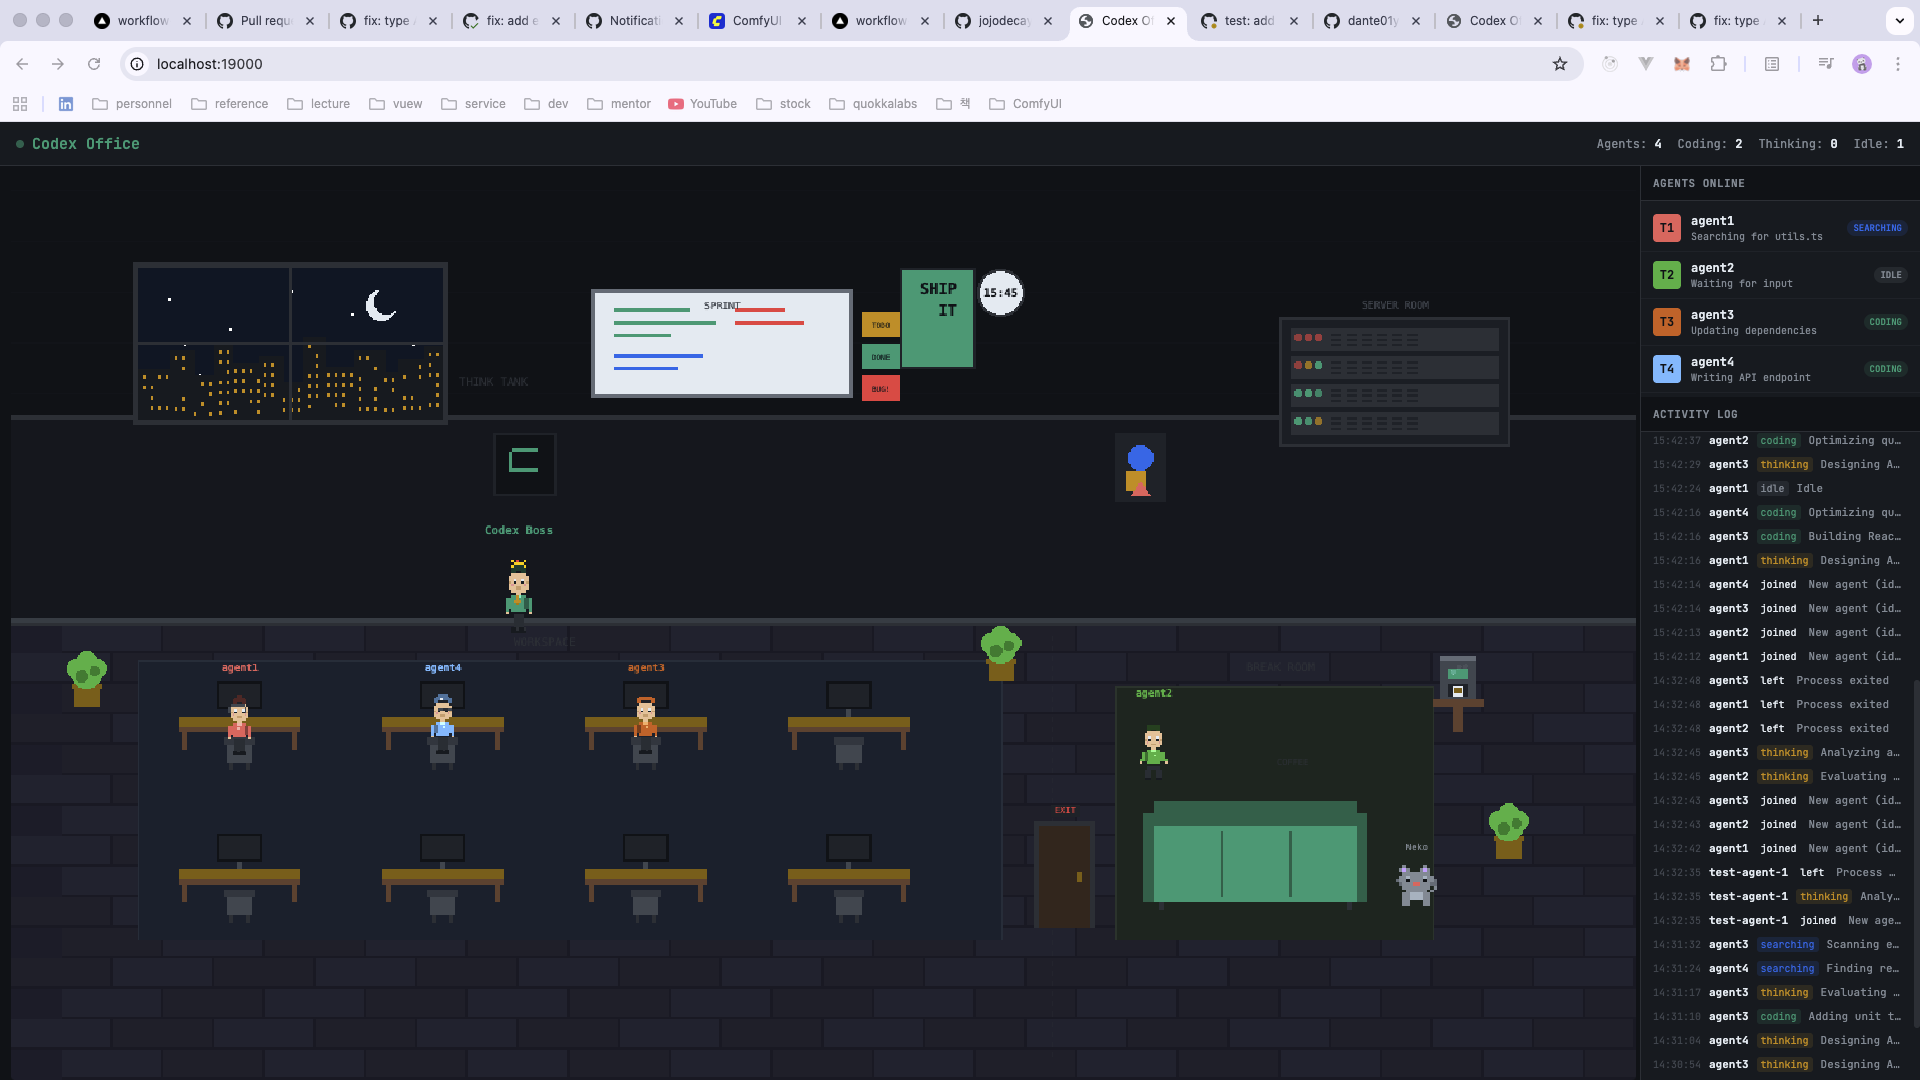
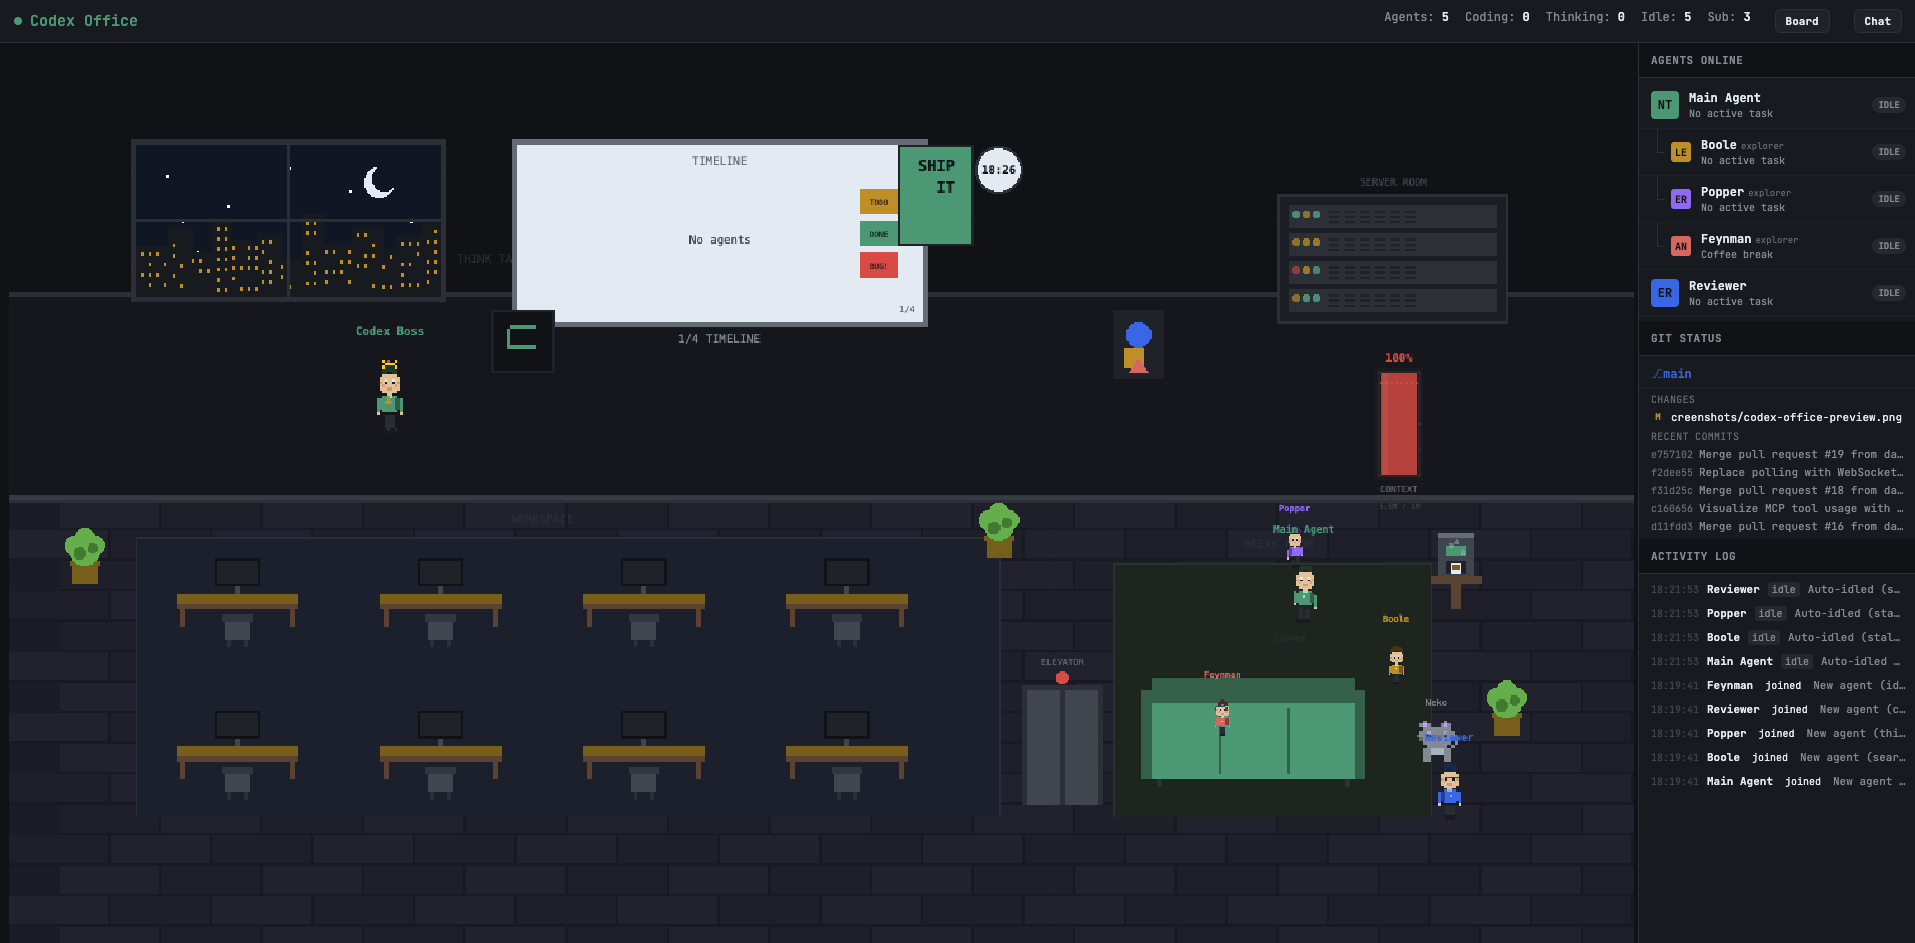
Update README and screenshot with all new features

diff --git a/README.md b/README.md
@@ -7,21 +7,28 @@ A real-time pixel art office that visualizes running [OpenAI Codex CLI](https://
 ## Features
 
 - **Real-time Codex detection** - Automatically detects Codex CLI and VS Code Codex sessions
-- **3-layer detection system** - Process scanning + SQLite session data + log analysis
-- **CPU-based state classification** - coding, thinking, searching, idle states with debouncing
+- **WebSocket real-time updates** - Instant UI updates via Socket.IO, polling fallback
+- **Sub-agent visualization** - Sub-agents appear as smaller sprites near their parent with tree-structured sidebar
+- **MCP tool icons** - Floating service badges (Notion, GitHub, Sentry, Slack, etc.) above characters during MCP tool calls
+- **Interactive whiteboard** - 4 display modes (Timeline, Tool Usage, Org Chart, News Ticker) with expandable sidebar panel
+- **Conversation history** - Toggleable chat panel showing parsed Codex log events
+- **Context window meter** - Visual gauge showing token usage with color-coded fill
+- **A* pathfinding** - Characters navigate around furniture naturally
+- **Elevator animation** - Agents arrive/depart through animated elevator doors
+- **Git status panel** - Branch, changed files, recent commits in sidebar
 - **Pixel art office** - Programmatically generated characters with 8 hair styles, accessories, and 6 animation frames
 - **Activity log** - Timestamped state transitions and task descriptions
 - **Simulation mode** - Demo with 4 agents showing realistic behavior patterns
-- **PNG asset override** - Drop sprite sheets into `assets/` to replace programmatic sprites
 
 ## How It Works
 
 ```
-Codex processes  ←[scan every 2s]→  agent-watcher.py  →[POST /agent/state]→  Flask (port 19000)
-                                                                                    │
-~/.codex/state_5.sqlite  ←[session metadata]─────────────────────────────────────────┤
-                                                                                    │
-Browser (Phaser 3)  ←──────────────[GET /agents every 500ms polling]────────────────┘
+Codex processes  ←[scan 2s]→  agent-watcher.py  →[POST]→  Flask + SocketIO (port 19000)
+                                                                   │
+~/.codex/state_5.sqlite  ←[session + sub-agent metadata]───────────┤
+~/.codex/logs_1.sqlite   ←[tool calls + MCP activity]──────────────┤
+                                                                   │
+Browser (Phaser 3)  ←───────────[WebSocket real-time]──────────────┘
 ```
 
 ### State Classification
@@ -33,9 +40,29 @@ Browser (Phaser 3)  ←──────────────[GET /agents ev
 | **searching** | 2-5% | Think Tank |
 | **idle** | < 2% | Break Room (couch) |
 
+### Keyboard Shortcuts
+
+| Key | Action |
+|-----|--------|
+| `1-4` | Switch whiteboard mode |
+| `W` | Toggle whiteboard panel |
+| `Chat` button | Toggle conversation history |
+| `Board` button | Toggle whiteboard panel |
+| Double-click agent | Focus terminal window |
+
 ## Quick Start
 
-### One-click (macOS)
+### Auto-start (recommended)
+
+```bash
+# Install as macOS LaunchAgent - starts on login
+bash install-autostart.sh
+
+# Open in browser
+open http://localhost:19000
+```
+
+### One-click
 
 Double-click `start-office.command`
 
@@ -43,12 +70,12 @@ Double-click `start-office.command`
 
 ```bash
 # Install dependencies
-pip install flask flask-cors requests
+pip install flask flask-cors flask-socketio requests
 
 # Start the backend server
 python3 backend/app.py &
 
-# Start the agent watcher (detects real Codex sessions)
+# Start the agent watcher
 python3 agent-watcher.py &
 
 # Open in browser
@@ -67,24 +94,29 @@ python3 simulate.py 4
 ```
 codex-office/
 ├── backend/
-│   └── app.py              # Flask API server (port 19000)
+│   └── app.py              # Flask + SocketIO server (port 19000)
 ├── frontend/
 │   ├── assets/             # Drop-in PNG spritesheet folder
-│   ├── index.html          # Phaser 3 entry point (CDN, no build step)
-│   ├── game.js             # Office scene rendering & character management
-│   ├── layout.js           # Zone coordinates, furniture, color palette
+│   ├── index.html          # Phaser 3 + Socket.IO entry point
+│   ├── game.js             # Office scene, characters, polling, WebSocket
+│   ├── layout.js           # Zones, furniture, colors, constants
 │   ├── sprites.js          # Component-based pixel art generation
+│   ├── pathfinding.js      # A* pathfinding with obstacle avoidance
+│   ├── whiteboard.js       # 4-mode whiteboard + expandable panel
+│   ├── mcp-icons.js        # MCP service icon badges (14 services)
 │   └── style.css           # Dark theme UI
-├── agent-watcher.py        # Codex process detector (3-layer)
+├── agent-watcher.py        # Codex process detector (3-layer + sub-agents)
 ├── codex-notify-hook.py    # Optional Codex notify integration
 ├── simulate.py             # Demo agent simulator
 ├── set_state.py            # Manual state control CLI
 ├── test_office.py          # Integration tests (23 tests)
+├── install-autostart.sh    # macOS LaunchAgent installer
+├── uninstall-autostart.sh  # Remove auto-start
 ├── start-office.command    # macOS one-click launcher
 └── requirements.txt
 ```
 
-## Codex Detection Details
+## Codex Detection
 
 The watcher detects Codex in three ways:
 
@@ -92,21 +124,30 @@ The watcher detects Codex in three ways:
 2. **Node launcher** - Falls back to detecting `node /path/to/codex` processes
 3. **VS Code extension** - Detects `codex app-server` processes, groups by extension version
 
-Session metadata (title, model, working directory) is enriched from `~/.codex/state_5.sqlite`.
+Sub-agents are detected via `thread_spawn_edges` table and JSON `source` column in `~/.codex/state_5.sqlite`, with nickname and role extraction (e.g., "Boole", "explorer").
+
+## MCP Tool Visualization
+
+When agents call MCP tools, a colored service badge appears above their character:
+
+| Service | Badge | Color |
+|---------|-------|-------|
+| Notion | `N` | White |
+| GitHub | `GH` | Dark |
+| Sentry | `S` | Purple |
+| Slack | `SL` | Purple |
+| Figma | `FG` | Orange |
+| Vercel | `V` | Black |
+| Chrome DevTools | `CD` | Yellow |
+| + 7 more | ... | ... |
 
 ## Custom Assets
 
 Drop PNG sprite sheets into `frontend/assets/` to replace programmatic sprites. See [`frontend/assets/README.md`](frontend/assets/README.md) for format specs.
 
-**Character sprite**: 6 frames horizontal strip (60x84px each at 3x scale)
-```
-Frame 0: Idle 1  |  Frame 1: Idle 2  |  Frame 2-4: Walk cycle  |  Frame 5: Working
-```
-
 ## Tests
 
 ```bash
-# Run the full integration test suite (requires server running)
 python3 backend/app.py &
 python3 test_office.py
 ```